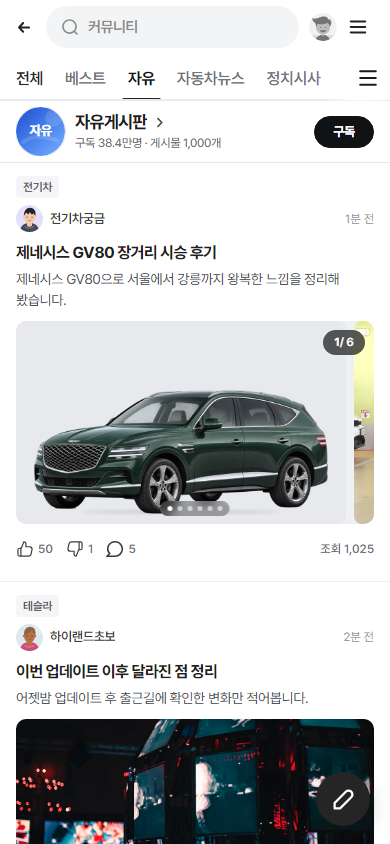
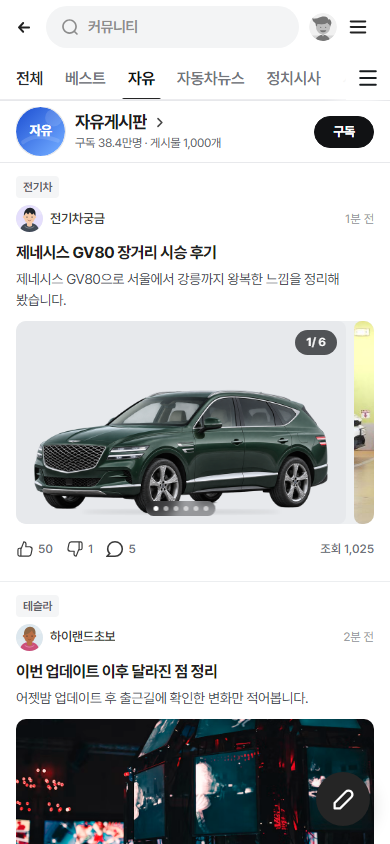
fix: anchor carousel pagination to active photo

Changed region(s): [[0.7385, 0.3697, 0.9538, 0.4313], [0.3692, 0.5853, 0.5846, 0.6161]]

diff --git a/public/community/naver-discussion-feed.css b/public/community/naver-discussion-feed.css
@@ -48,14 +48,15 @@
 .naverDiscussionTitle{display:block;margin:7px 0 4px;color:#1e1e23;font-size:16px;line-height:24px;font-weight:750;letter-spacing:-.035em;text-decoration:none;word-break:keep-all}
 .naverDiscussionBody{display:-webkit-box;margin:0;color:#50545a;font-size:14px;line-height:21px;font-weight:420;letter-spacing:-.025em;-webkit-box-orient:vertical;-webkit-line-clamp:3;overflow:hidden;word-break:keep-all}
 .naverDiscussionMediaShell{position:relative;height:clamp(184px,52vw,210px);margin-top:10px;overflow:hidden;border-radius:10px;background:#eef0f2}
+.naverDiscussionMediaShell.is-multi{--naver-media-peek:28px}
 .naverDiscussionMediaRail{display:flex;width:100%;height:100%;gap:8px;overflow-x:auto;overflow-y:hidden;scroll-snap-type:x mandatory;scroll-behavior:smooth;scrollbar-width:none;overscroll-behavior-x:contain;touch-action:pan-x pan-y}
 .naverDiscussionMediaRail::-webkit-scrollbar{display:none}
 .naverDiscussionMediaItem{display:block;width:100%;height:100%;flex:0 0 100%;overflow:hidden;background:#e7e9ec;scroll-snap-align:start;scroll-snap-stop:always;text-decoration:none;-webkit-tap-highlight-color:transparent}
-.naverDiscussionMediaShell.is-multi .naverDiscussionMediaItem{flex-basis:calc(100% - 28px);border-radius:8px}
+.naverDiscussionMediaShell.is-multi .naverDiscussionMediaItem{flex-basis:calc(100% - var(--naver-media-peek));border-radius:8px}
 .naverDiscussionMediaItem img{display:block;width:100%;height:100%;object-fit:cover}
-.naverDiscussionMediaCount{position:absolute;right:9px;top:9px;z-index:2;min-width:42px;height:25px;padding:0 9px;display:flex;align-items:center;justify-content:center;border-radius:14px;background:rgba(23,25,28,.72);color:#fff;font-size:11.5px;line-height:25px;font-weight:560;letter-spacing:-.01em;pointer-events:none;backdrop-filter:blur(5px)}
+.naverDiscussionMediaCount{position:absolute;right:calc(var(--naver-media-peek,0px) + 9px);top:9px;z-index:2;min-width:42px;height:25px;padding:0 9px;display:flex;align-items:center;justify-content:center;border-radius:14px;background:rgba(23,25,28,.72);color:#fff;font-size:11.5px;line-height:25px;font-weight:560;letter-spacing:-.01em;pointer-events:none;backdrop-filter:blur(5px)}
 .naverDiscussionMediaCount b{font-weight:750}
-.naverDiscussionMediaDots{position:absolute;left:50%;bottom:8px;z-index:2;display:flex;align-items:center;gap:5px;padding:5px 7px;transform:translateX(-50%);border-radius:12px;background:rgba(19,21,24,.35);pointer-events:auto;backdrop-filter:blur(5px)}
+.naverDiscussionMediaDots{position:absolute;left:calc((100% - var(--naver-media-peek,0px))/2);bottom:8px;z-index:2;display:flex;align-items:center;gap:5px;padding:5px 7px;transform:translateX(-50%);border-radius:12px;background:rgba(19,21,24,.35);pointer-events:auto;backdrop-filter:blur(5px)}
 .naverDiscussionMediaDots button{width:5px;height:5px;flex:0 0 5px;border-radius:50%;background:rgba(255,255,255,.58);transition:width .16s ease,background-color .16s ease}
 .naverDiscussionMediaDots button.is-active{width:13px;border-radius:4px;background:#fff}
 .naverDiscussionMetrics{height:35px;margin-top:8px;display:flex;align-items:center;gap:13px;color:#6f737a;font-size:12px;line-height:18px;font-weight:560}

diff --git a/public/community/naver-cafe-list.html b/public/community/naver-cafe-list.html
@@ -7,7 +7,7 @@
 <title>보배드림 커뮤니티</title>
 <link rel="stylesheet" href="../%61ssets/fonts/pretendard/pretendard-guazi.css">
 <link rel="stylesheet" href="./reddit-feed.css?v=20261016redditicons1">
-<link rel="stylesheet" href="./naver-discussion-feed.css?v=20261016navercarousel2">
+<link rel="stylesheet" href="./naver-discussion-feed.css?v=20261016navercarousel3">
 <link rel="stylesheet" href="./chotot-feed.css?v=20261016saveicon1">
 <link rel="stylesheet" href="./reddit-popular.css?v=20261016popular6">
 <link rel="stylesheet" href="./hupu-board-navigation.css?v=20261016reorder2">

diff --git a/design-qa.md b/design-qa.md
@@ -184,6 +184,7 @@ final result: passed
 - 사용자 후속 수정: 네이버의 상단 탐색 구조와 중간 추천 모듈을 모두 제거하고 게시물 피드 리스트만 남겼다.
 - 사용자 후속 수정 2: 피드 카드의 버프·너프 문구만 제거하고 아이콘·숫자·선택 상태는 유지했다.
 - 사용자 후속 수정 3: 사진이 여러 장인 게시물은 좌우 스와이프 레일로 바꾸고 다음 사진 미리보기, 스냅, `현재 / 전체` 표시와 페이지 점을 추가했다. 사진 한 장은 기존 전체 폭을 유지했다.
+- 사용자 후속 수정 4: `현재 / 전체` 번호는 선택 이미지 우측 상단 안쪽, 페이지 점은 선택 이미지 하단 중앙을 기준으로 배치했다. 다음 이미지 미리보기 영역에는 페이지네이션이 걸치지 않는다.
 
 final result: passed
 
